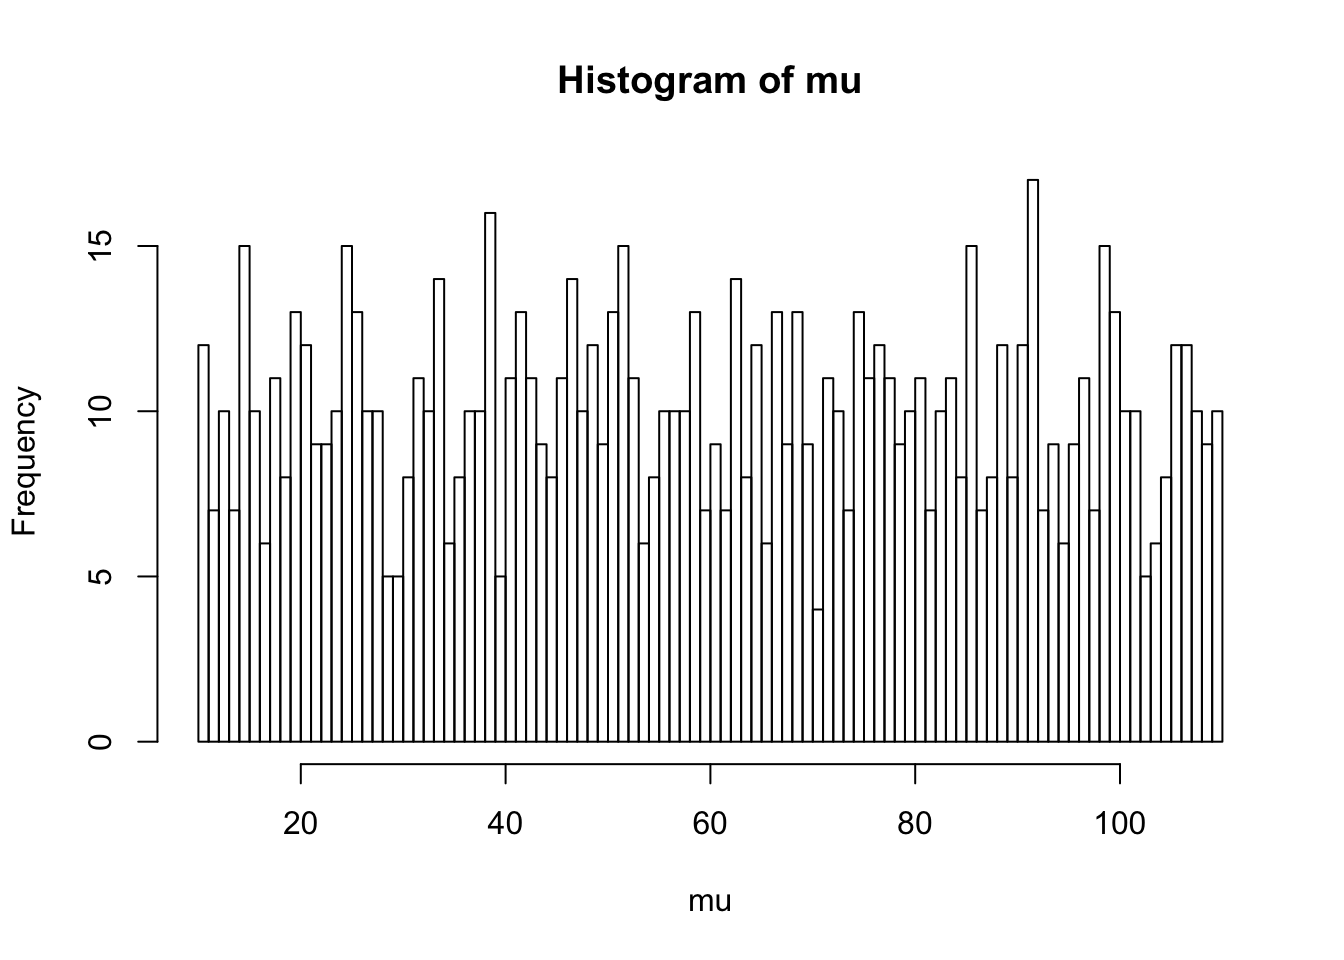
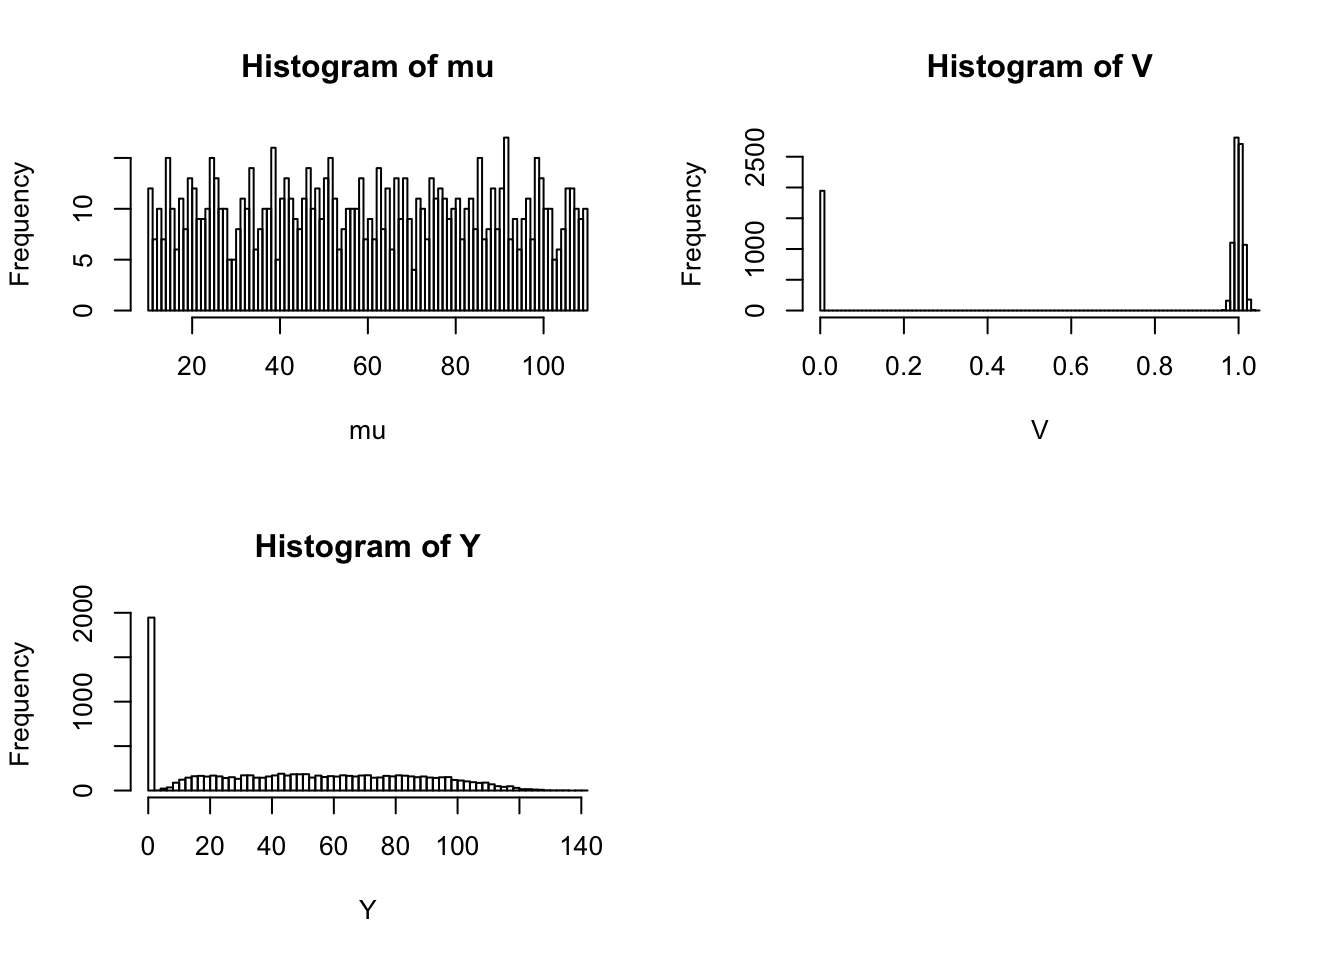
Build site.

diff --git a/docs/experiment_ebpm_bg.html b/docs/experiment_ebpm_bg.html
@@ -509,10 +509,10 @@ unnamed-chunk-2
 <div class="panel panel-default">
 <div class="panel-heading">
 <p class="panel-title">
-<a data-toggle="collapse" data-parent="#workflowr-checks" href="#strongRepositoryversionstrongahrefhttpsgithubcomzihao12ebpmfdemotree4b96bf8384aec6cd88c2848fe1094011e4f46d72targetblank4b96bf8a"> <span class="glyphicon glyphicon-ok text-success" aria-hidden="true"></span> <strong>Repository version:</strong> <a href="https://github.com/zihao12/ebpmf_demo/tree/4b96bf8384aec6cd88c2848fe1094011e4f46d72" target="_blank">4b96bf8</a> </a>
+<a data-toggle="collapse" data-parent="#workflowr-checks" href="#strongRepositoryversionstrongahrefhttpsgithubcomzihao12ebpmfdemotree6ab81da81404ca10d2bd25584e4ccf1f252b9054targetblank6ab81daa"> <span class="glyphicon glyphicon-ok text-success" aria-hidden="true"></span> <strong>Repository version:</strong> <a href="https://github.com/zihao12/ebpmf_demo/tree/6ab81da81404ca10d2bd25584e4ccf1f252b9054" target="_blank">6ab81da</a> </a>
 </p>
 </div>
[2 lines of base64/hex data omitted]
 <div class="panel-body">
 <p>
 Great! You are using Git for version control. Tracking code development and connecting the code version to the results is critical for reproducibility. The version displayed above was the version of the Git repository at the time these results were generated. <br><br> Note that you need to be careful to ensure that all relevant files for the analysis have been committed to Git prior to generating the results (you can use <code>wflow_publish</code> or <code>wflow_git_commit</code>). workflowr only checks the R Markdown file, but you know if there are other scripts or data files that it depends on. Below is the status of the Git repository when the results were generated:
@@ -662,6 +662,40 @@ Message
 Rmd
 </td>
 <td>
+<a href="https://github.com/zihao12/ebpmf_demo/blob/6ab81da81404ca10d2bd25584e4ccf1f252b9054/analysis/experiment_ebpm_bg.Rmd" target="_blank">6ab81da</a>
+</td>
+<td>
+zihao12
+</td>
+<td>
+2020-04-25
+</td>
+<td>
+update analysis of bg model
+</td>
+</tr>
+<tr>
+<td>
+html
+</td>
+<td>
+<a href="https://rawcdn.githack.com/zihao12/ebpmf_demo/627848803bd3e80abe806e8a49c7522da318b158/docs/experiment_ebpm_bg.html" target="_blank">6278488</a>
+</td>
+<td>
+zihao12
+</td>
+<td>
+2020-04-25
+</td>
+<td>
+Build site.
+</td>
+</tr>
+<tr>
+<td>
+Rmd
+</td>
+<td>
 <a href="https://github.com/zihao12/ebpmf_demo/blob/4b96bf8384aec6cd88c2848fe1094011e4f46d72/analysis/experiment_ebpm_bg.Rmd" target="_blank">4b96bf8</a>
 </td>
 <td>
@@ -734,6 +768,7 @@ experiment with ebpm_bg
 </div>
 <div id="data-simulation" class="section level2">
 <h2>data simulation</h2>
+<p>I simulate <span class="math inline">\(v_{jk} \sim Ga(1/\phi_{jk}, 1/\phi_{jk})\)</span> (so <span class="math inline">\(var(v_{jk}) = \phi_{jk}\)</span>), with 80% <span class="math inline">\(\phi_{jk} = 10^{-4}\)</span>, 10% <span class="math inline">\(\phi_{jk} = 10^{+4}\)</span>, 10% <span class="math inline">\(\phi_{jk} = 10^{+8}\)</span>. Seems that most bigger <span class="math inline">\(\phi\)</span> yields <span class="math inline">\(v = 0\)</span>. So the outlier (20%) for each <span class="math inline">\(j\)</span> are mostly 0.</p>
 <pre class="r"><code>rm(list = ls())
 source(&quot;script/ebpm_background2.R&quot;)
 source(&quot;script/nb_means.R&quot;)
@@ -767,10 +802,12 @@ Y = matrix(rpois(n = p * K, lambda = Lam), nrow = p)</code></pre>
 runtime_bg_eb &lt;- system.time(
   fit_bg_eb &lt;- ebpm_background(Y = Y, s = s, maxiter = maxiter)
 )</code></pre>
-<pre class="r"><code>runtime_bg_eb</code></pre>
+<pre class="r"><code>## runtime
+runtime_bg_eb</code></pre>
 <pre><code>   user  system elapsed 
  67.108   3.992  19.628 </code></pre>
-<pre class="r"><code>plot(fit_bg_eb$progress, xlab = &quot;niter&quot;, ylab = &quot;log-likelihood&quot;, type =&quot;l&quot;)</code></pre>
+<pre class="r"><code>## algo progress
+plot(fit_bg_eb$progress, xlab = &quot;niter&quot;, ylab = &quot;log-likelihood&quot;, type =&quot;l&quot;)</code></pre>
 <p><img src="figure/experiment_ebpm_bg.Rmd/unnamed-chunk-3-1.png" width="672" style="display: block; margin: auto;" /></p>
 <p>
 <button type="button" class="btn btn-default btn-xs btn-workflowr btn-workflowr-fig" data-toggle="collapse" data-target="#fig-unnamed-chunk-3-1">
@@ -796,6 +833,17 @@ Date
 <tbody>
 <tr>
 <td>
+<a href="https://github.com/zihao12/ebpmf_demo/blob/627848803bd3e80abe806e8a49c7522da318b158/docs/figure/experiment_ebpm_bg.Rmd/unnamed-chunk-3-1.png" target="_blank">6278488</a>
+</td>
+<td>
+zihao12
+</td>
+<td>
+2020-04-25
+</td>
+</tr>
+<tr>
+<td>
 <a href="https://github.com/zihao12/ebpmf_demo/blob/2994d116200b488321394f1bdc61e42739b34c0f/docs/figure/experiment_ebpm_bg.Rmd/unnamed-chunk-3-1.png" target="_blank">2994d11</a>
 </td>
 <td>
@@ -812,7 +860,12 @@ zihao12
 </div>
 <div id="look-at-data" class="section level2">
 <h2>look at data</h2>
-<pre class="r"><code>hist(mu, breaks = 100)</code></pre>
+<pre class="r"><code>par(mfrow=c(2,2))
+hist(mu, breaks = 100)
+
+hist(V, breaks = 100)
+
+hist(Y, breaks  = 100)</code></pre>
 <p><img src="figure/experiment_ebpm_bg.Rmd/unnamed-chunk-4-1.png" width="672" style="display: block; margin: auto;" /></p>
 <p>
 <button type="button" class="btn btn-default btn-xs btn-workflowr btn-workflowr-fig" data-toggle="collapse" data-target="#fig-unnamed-chunk-4-1">
@@ -838,6 +891,17 @@ Date
 <tbody>
 <tr>
 <td>
+<a href="https://github.com/zihao12/ebpmf_demo/blob/627848803bd3e80abe806e8a49c7522da318b158/docs/figure/experiment_ebpm_bg.Rmd/unnamed-chunk-4-1.png" target="_blank">6278488</a>
+</td>
+<td>
+zihao12
+</td>
+<td>
+2020-04-25
+</td>
+</tr>
+<tr>
+<td>
 <a href="https://github.com/zihao12/ebpmf_demo/blob/2994d116200b488321394f1bdc61e42739b34c0f/docs/figure/experiment_ebpm_bg.Rmd/unnamed-chunk-4-1.png" target="_blank">2994d11</a>
 </td>
 <td>
@@ -851,10 +915,6 @@ zihao12
 </table>
 </div>
 </div>
-<pre class="r"><code>hist(V, breaks = 100)</code></pre>
-<p><img src="figure/experiment_ebpm_bg.Rmd/unnamed-chunk-4-2.png" width="672" style="display: block; margin: auto;" /></p>
-<pre class="r"><code>hist(Y, breaks  = 100)</code></pre>
-<p><img src="figure/experiment_ebpm_bg.Rmd/unnamed-chunk-4-3.png" width="672" style="display: block; margin: auto;" /></p>
 </div>
 <div id="compare-fits" class="section level2">
 <h2>compare fits</h2>
@@ -888,6 +948,17 @@ Date
 </tr>
 </thead>
 <tbody>
+<tr>
+<td>
+<a href="https://github.com/zihao12/ebpmf_demo/blob/627848803bd3e80abe806e8a49c7522da318b158/docs/figure/experiment_ebpm_bg.Rmd/unnamed-chunk-5-1.png" target="_blank">6278488</a>
+</td>
+<td>
+zihao12
+</td>
+<td>
+2020-04-25
+</td>
+</tr>
 <tr>
 <td>
 <a href="https://github.com/zihao12/ebpmf_demo/blob/2994d116200b488321394f1bdc61e42739b34c0f/docs/figure/experiment_ebpm_bg.Rmd/unnamed-chunk-5-1.png" target="_blank">2994d11</a>
@@ -936,6 +1007,17 @@ Date
 <tbody>
 <tr>
 <td>
+<a href="https://github.com/zihao12/ebpmf_demo/blob/627848803bd3e80abe806e8a49c7522da318b158/docs/figure/experiment_ebpm_bg.Rmd/unnamed-chunk-6-1.png" target="_blank">6278488</a>
+</td>
+<td>
+zihao12
+</td>
+<td>
+2020-04-25
+</td>
+</tr>
+<tr>
+<td>
 <a href="https://github.com/zihao12/ebpmf_demo/blob/2994d116200b488321394f1bdc61e42739b34c0f/docs/figure/experiment_ebpm_bg.Rmd/unnamed-chunk-6-1.png" target="_blank">2994d11</a>
 </td>
 <td>
@@ -955,10 +1037,84 @@ zihao12
 <pre class="r"><code>V_bg_eb = fit_bg_eb$posterior$mean
 plot(V, V_bg_eb, col = &quot;red&quot;, pch = 16)</code></pre>
 <p><img src="figure/experiment_ebpm_bg.Rmd/unnamed-chunk-7-1.png" width="672" style="display: block; margin: auto;" /></p>
+<p>
+<button type="button" class="btn btn-default btn-xs btn-workflowr btn-workflowr-fig" data-toggle="collapse" data-target="#fig-unnamed-chunk-7-1">
+Past versions of unnamed-chunk-7-1.png
+</button>
+</p>
+<div id="fig-unnamed-chunk-7-1" class="collapse">
+<div class="table-responsive">
+<table class="table table-condensed table-hover">
+<thead>
+<tr>
+<th>
+Version
+</th>
+<th>
+Author
+</th>
+<th>
+Date
+</th>
+</tr>
+</thead>
+<tbody>
+<tr>
+<td>
+<a href="https://github.com/zihao12/ebpmf_demo/blob/627848803bd3e80abe806e8a49c7522da318b158/docs/figure/experiment_ebpm_bg.Rmd/unnamed-chunk-7-1.png" target="_blank">6278488</a>
+</td>
+<td>
+zihao12
+</td>
+<td>
+2020-04-25
+</td>
+</tr>
+</tbody>
+</table>
+</div>
+</div>
 <pre class="r"><code>## look at V_bg_eb more closely
 mask &lt;- (V &gt; 0.5)
 plot(V[mask], V_bg_eb[mask], col = &quot;red&quot;, pch = 16)</code></pre>
 <p><img src="figure/experiment_ebpm_bg.Rmd/unnamed-chunk-7-2.png" width="672" style="display: block; margin: auto;" /></p>
+<p>
+<button type="button" class="btn btn-default btn-xs btn-workflowr btn-workflowr-fig" data-toggle="collapse" data-target="#fig-unnamed-chunk-7-2">
+Past versions of unnamed-chunk-7-2.png
+</button>
+</p>
+<div id="fig-unnamed-chunk-7-2" class="collapse">
+<div class="table-responsive">
+<table class="table table-condensed table-hover">
+<thead>
+<tr>
+<th>
+Version
+</th>
+<th>
+Author
+</th>
+<th>
+Date
+</th>
+</tr>
+</thead>
+<tbody>
+<tr>
+<td>
+<a href="https://github.com/zihao12/ebpmf_demo/blob/627848803bd3e80abe806e8a49c7522da318b158/docs/figure/experiment_ebpm_bg.Rmd/unnamed-chunk-7-2.png" target="_blank">6278488</a>
+</td>
+<td>
+zihao12
+</td>
+<td>
+2020-04-25
+</td>
+</tr>
+</tbody>
+</table>
+</div>
+</div>
 </div>
 </div>
 <div id="look-at-how-it-is-shrunk" class="section level2">
@@ -968,6 +1124,43 @@ Y[idx,]</code></pre>
 <pre><code> [1] 59 44 54 53 49  0 51  0 53  0</code></pre>
 <pre class="r"><code>plot(Y[idx,], s * lam_bg_eb[idx, ])</code></pre>
 <p><img src="figure/experiment_ebpm_bg.Rmd/unnamed-chunk-8-1.png" width="672" style="display: block; margin: auto;" /></p>
+<p>
+<button type="button" class="btn btn-default btn-xs btn-workflowr btn-workflowr-fig" data-toggle="collapse" data-target="#fig-unnamed-chunk-8-1">
+Past versions of unnamed-chunk-8-1.png
+</button>
+</p>
+<div id="fig-unnamed-chunk-8-1" class="collapse">
+<div class="table-responsive">
+<table class="table table-condensed table-hover">
+<thead>
+<tr>
+<th>
+Version
+</th>
+<th>
+Author
+</th>
+<th>
+Date
+</th>
+</tr>
+</thead>
+<tbody>
+<tr>
+<td>
+<a href="https://github.com/zihao12/ebpmf_demo/blob/627848803bd3e80abe806e8a49c7522da318b158/docs/figure/experiment_ebpm_bg.Rmd/unnamed-chunk-8-1.png" target="_blank">6278488</a>
+</td>
+<td>
+zihao12
+</td>
+<td>
+2020-04-25
+</td>
+</tr>
+</tbody>
+</table>
+</div>
+</div>
 <br>
 <p>
 <button type="button" class="btn btn-default btn-workflowr btn-workflowr-sessioninfo" data-toggle="collapse" data-target="#workflowr-sessioninfo" style="display: block;">
